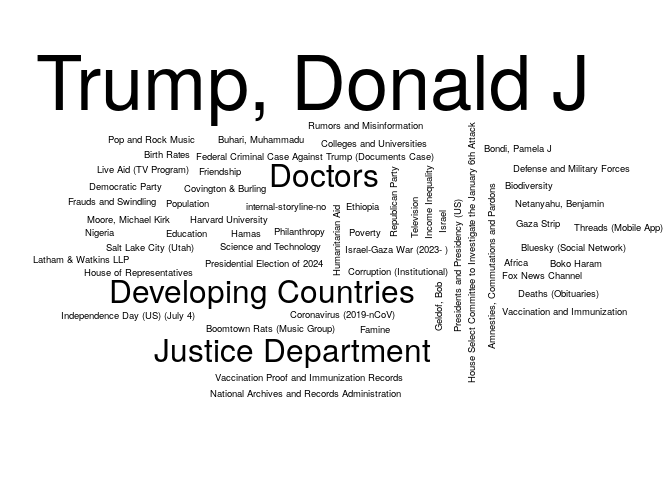
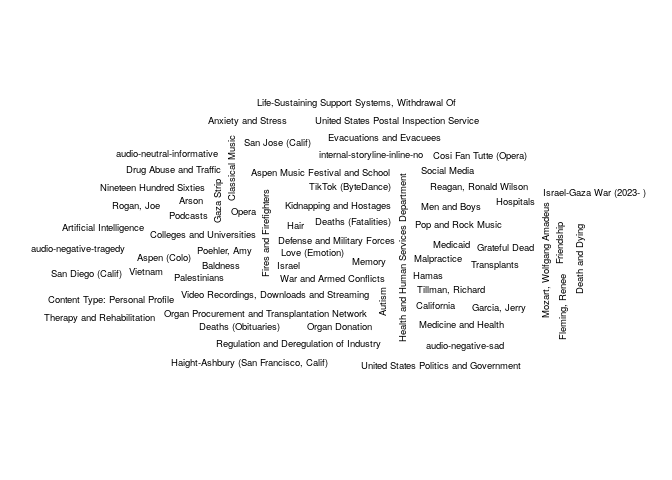
Updating the NYT report

Changed region(s): [[0.0312, 0.0938, 1.0, 0.8438], [0.8125, 0.0938, 0.875, 0.25]]

diff --git a/03-nytimes/README.md b/03-nytimes/README.md
@@ -5,7 +5,7 @@ The following is an example of how to use the [NYTimes
 API](https://developer.nytimes.com/) to get a list of articles related
 to a particular term. Here we are searching articles that include the
 term `"health"`, and that were published up to seven days ago since
-2025-07-14.
+2025-07-21.
 
 ``` r
 # Preparing a function to use the GET method with the NYTimes API
@@ -83,25 +83,25 @@ colnames(tab) <- c("Keyword", "# Articles")
 knitr::kable(tab, row.names = FALSE)
 ```
 
-| Keyword                               | \# Articles |
-|:--------------------------------------|------------:|
-| Trump, Donald J                       |          20 |
-| United States Politics and Government |          20 |
-| Developing Countries                  |          10 |
-| Doctors                               |          10 |
-| Justice Department                    |          10 |
-| Africa                                |           5 |
-| Amnesties, Commutations and Pardons   |           5 |
-| Biodiversity                          |           5 |
-| Birth Rates                           |           5 |
-| Bluesky (Social Network)              |           5 |
-| Boko Haram                            |           5 |
-| Bondi, Pamela J                       |           5 |
-| Boomtown Rats (Music Group)           |           5 |
-| Buhari, Muhammadu                     |           5 |
-| Colleges and Universities             |           5 |
-| Coronavirus (2019-nCoV)               |           5 |
-| Corruption (Institutional)            |           5 |
-| Covington & Burling                   |           5 |
-| Deaths (Obituaries)                   |           5 |
-| Defense and Military Forces           |           5 |
+| Keyword                         | \# Articles |
+|:--------------------------------|------------:|
+| internal-storyline-no           |          10 |
+| Anxiety and Stress              |           5 |
+| Arson                           |           5 |
+| Artificial Intelligence         |           5 |
+| Aspen (Colo)                    |           5 |
+| Aspen Music Festival and School |           5 |
+| audio-negative-sad              |           5 |
+| audio-negative-tragedy          |           5 |
+| audio-neutral-informative       |           5 |
+| Autism                          |           5 |
+| Baldness                        |           5 |
+| California                      |           5 |
+| Classical Music                 |           5 |
+| Colleges and Universities       |           5 |
+| Content Type: Personal Profile  |           5 |
+| Cosi Fan Tutte (Opera)          |           5 |
+| Death and Dying                 |           5 |
+| Deaths (Fatalities)             |           5 |
+| Deaths (Obituaries)             |           5 |
+| Defense and Military Forces     |           5 |
